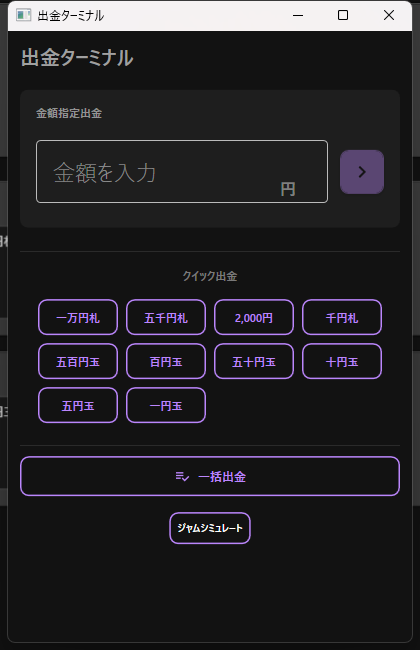
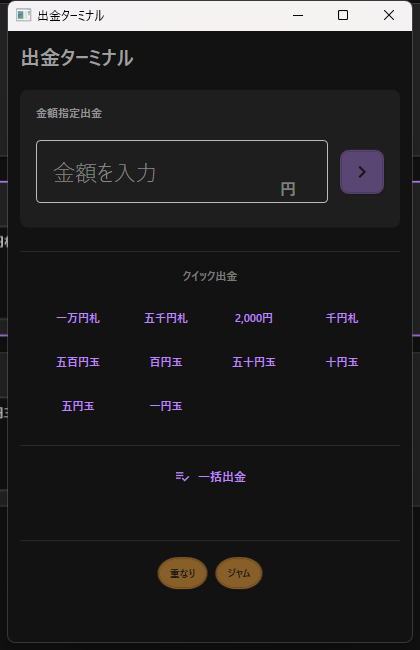
style: update UI themes, localization strings and visual documentation assets

diff --git a/src/CashChangerSimulator.UI.Wpf/Themes/Templates.xaml b/src/CashChangerSimulator.UI.Wpf/Themes/Templates.xaml
@@ -396,24 +396,7 @@
     </DataTemplate>
 
     <DataTemplate x:Key="DepositErrorTemplate">
-        <Grid>
-            <!-- DepositErrorView does not exist yet. Only showing reset button for now if ever used. -->
-            <Border
-                Style="{StaticResource CardStyle}"
-                Background="{DynamicResource MaterialDesign.Brush.SurfaceVariant}"
-                Margin="0,0,0,16"
-                Padding="12">
-                <Button
-                    Content="{StaticResource ResetError}"
-                    Command="{Binding ResetErrorCommand}"
-                    Style="{StaticResource ErrorResetButtonStyle}"
-                    Padding="30,10"
-                    FontSize="18"
-                    FontWeight="Bold"
-                    VerticalAlignment="Bottom"
-                    HorizontalAlignment="Center"/>
-            </Border>
-        </Grid>
+        <views:DepositErrorView />
     </DataTemplate>
 
     <DataTemplate x:Key="DepositIdleTemplate">

diff --git a/src/CashChangerSimulator.UI.Wpf/Themes/Styles.xaml b/src/CashChangerSimulator.UI.Wpf/Themes/Styles.xaml
@@ -47,8 +47,8 @@
         <Setter Property="materialDesign:ButtonAssist.CornerRadius" Value="8"/>
         <Style.Triggers>
             <Trigger Property="IsMouseOver" Value="True">
-                <Setter Property="Background" Value="{DynamicResource MaterialDesign.Brush.OnPrimary}"/>
-                <Setter Property="Foreground" Value="{DynamicResource MaterialDesign.Brush.Primary}"/>
+                <Setter Property="Background" Value="{DynamicResource MaterialDesign.Brush.Primary.Dark}"/>
+                <Setter Property="Foreground" Value="{DynamicResource MaterialDesign.Brush.OnPrimary}"/>
             </Trigger>
         </Style.Triggers>
     </Style>

diff --git a/src/CashChangerSimulator.UI.Wpf/Themes/Strings.ja-JP.xaml b/src/CashChangerSimulator.UI.Wpf/Themes/Strings.ja-JP.xaml
@@ -85,6 +85,7 @@
     <system:String x:Key="QuickDispense">クイック出金</system:String>
     <system:String x:Key="BulkDispense">一括出金</system:String>
     <system:String x:Key="DispenseError">出金エラー</system:String>
+    <system:String x:Key="DepositError">入金エラー</system:String>
     <system:String x:Key="HardwareCheckRequired">ハードウェアを確認してください。</system:String>
     <system:String x:Key="ClearError">エラー解除</system:String>
     <system:String x:Key="ResetError">エラー解除</system:String>

diff --git a/src/CashChangerSimulator.UI.Wpf/Themes/Strings.en-US.xaml b/src/CashChangerSimulator.UI.Wpf/Themes/Strings.en-US.xaml
@@ -85,6 +85,7 @@
     <system:String x:Key="QuickDispense">QUICK DISPENSE</system:String>
     <system:String x:Key="BulkDispense">BULK DISPENSE</system:String>
     <system:String x:Key="DispenseError">DISPENSE ERROR</system:String>
+    <system:String x:Key="DepositError">DEPOSIT ERROR</system:String>
     <system:String x:Key="HardwareCheckRequired">Please check the hardware.</system:String>
     <system:String x:Key="ClearError">CLEAR ERROR</system:String>
     <system:String x:Key="ResetError">RESET ERROR</system:String>
